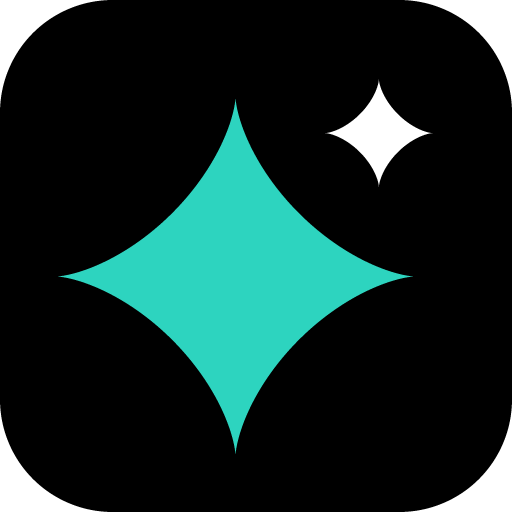
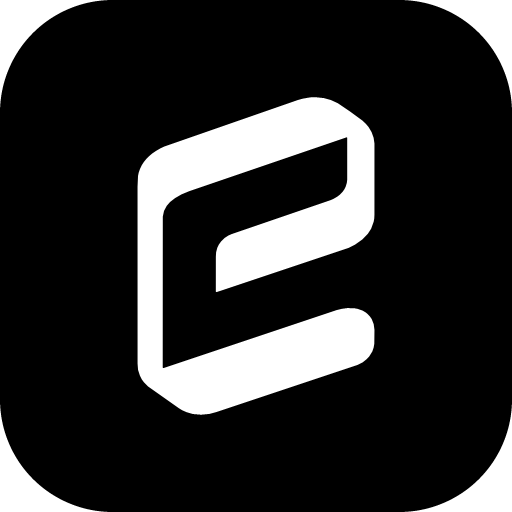
Use the isometric "e" as the brand mark
Replaces the placeholder broom glyph in the sidebar and auth screens, and the
generated teal sparkle in the icon set, with the real logo.

The mark is traced from the source artwork into a single filled outline in
web/src/brand.ts. That is the one definition: the React icon reads MARK_PATH,
and scripts/generate-icons.mjs reads the same constant out of the file to
render favicon.svg and the PWA icons — so the in-app logo, the tab icon and the
installed app icon cannot drift apart.

Tracing notes: contour-following on the pixel grid left the long isometric
edges visibly stair-stepped, so this traces sub-pixel via marching squares over
the anti-aliased luminance field instead. 99 points, ~1.3 KB of path, straight
edges and smooth corner rounds.

The in-app mark carries no fill of its own and inverts with the theme like any
other token-coloured shape. The app icons deliberately don't: an OS icon sits
on a wallpaper or tab strip of someone else's choosing, so it brings its own
true-black ground.

Bumps the service worker to v2 — installed clients would otherwise keep serving
the old cached icon-192.png.

Changed region(s): [[0.125, 0.1562, 0.8438, 0.875]]

diff --git a/web/src/brand.ts b/web/src/brand.ts
@@ -1,0 +1,18 @@
+/**
+ * The EasyClean brand mark: the isometric "e", traced from the source artwork
+ * into a single filled outline.
+ *
+ * This is the one definition of the mark. `scripts/generate-icons.mjs` reads
+ * MARK_PATH straight out of this file to render `public/favicon.svg` and the
+ * PWA icon set, so the tab icon, the installed app icon and the in-app logo
+ * can never drift apart — edit the path here and re-run the script.
+ *
+ * The glyph is taller than it is wide; it sits centred in a square viewBox so
+ * it drops into any square container without extra layout maths. The path
+ * carries no fill of its own, which lets each context colour it (`fill:
+ * var(--text)` on a card, `fill: var(--bg)` on an inverted tile).
+ */
+export const MARK_VIEWBOX = '0 0 100 100'
+
+export const MARK_PATH =
+  'M66.443 0.131L67.177 0.03L68.98 0L71.384 0.257L73.588 0.866L75.792 1.881L79.599 4.463L83.533 7.344L84.608 8.367L85.443 9.347L86.411 10.969L87.05 12.753L87.316 14.557L87.312 36.996L87.251 38.198L87.069 39.2L86.272 41.404L85.231 43.007L83.478 44.81L81.202 46.42L79.198 47.438L38.927 60.934L37.524 61.382L37.343 61.239L37.351 50.22L37.435 48.817L37.803 47.415L38.286 46.413L39.003 45.411L40.129 44.305L41.331 43.531L42.333 43.095L73.538 32.388L74.389 32.011L75.592 31.312L76.393 30.701L77.28 29.784L77.843 28.982L78.24 28.181L78.606 26.979L78.731 25.977L78.73 12.753L78.597 12.597L28.959 29.583L26.543 30.585L24.501 31.763L22.927 32.989L21.883 34.191L21.028 35.794L20.64 37.597L20.614 85.081L20.694 85.301L20.895 85.298L75.391 67.043L76.998 66.649L78.797 66.402L81.001 66.463L82 66.649L83.606 67.208L84.608 67.814L85.128 68.252L85.888 69.053L86.445 69.854L87.073 71.457L87.318 73.261L87.266 77.668L87.053 78.87L86.645 80.073L85.645 81.675L84.808 82.544L83.606 83.505L82.003 84.312L37.524 99.16L35.32 99.751L32.716 100L30.111 99.782L28.107 99.196L26.705 98.568L25.703 97.952L15.983 91.092L14.684 89.77L14.032 88.888L13.427 87.686L12.846 85.883L12.69 83.879L12.682 28.181L12.834 24.775L13.038 23.773L13.454 22.571L14.028 21.369L14.681 20.367L15.485 19.38L16.305 18.564L17.288 17.72L18.49 16.903L19.893 16.084L21.095 15.518L63.17 0.868L64.572 0.471Z'

diff --git a/web/src/icons.tsx b/web/src/icons.tsx
@@ -5,7 +5,18 @@
  * reload when this file changes, which is worth the callsite ergonomics.
  */
 /* eslint-disable react-refresh/only-export-components */
+import { MARK_PATH, MARK_VIEWBOX } from './brand'
+
 export const IC = {
+  /*
+   * The brand mark — the only filled glyph in here; the rest are stroked line
+   * icons. Callers colour it with `fill`, same as the others.
+   */
+  mark: () => (
+    <svg viewBox={MARK_VIEWBOX} xmlns="http://www.w3.org/2000/svg">
+      <path d={MARK_PATH} />
+    </svg>
+  ),
   broom: () => (
     <svg viewBox="0 0 24 24" xmlns="http://www.w3.org/2000/svg">
       <path d="M3 21l9-9M9.5 3.5l1.5 1.5-7 7-1.5-1.5z" />

diff --git a/web/src/styles/tokens.css b/web/src/styles/tokens.css
@@ -125,8 +125,10 @@ body,
   flex-shrink: 0;
 }
 .sidebar-brand-icon svg {
-  width: 18px;
-  height: 18px;
+  /* The brand mark is a tight filled glyph, not a padded line icon, so it wants
+     a smaller box than the icons elsewhere to sit right inside the tile. */
+  width: 16px;
+  height: 16px;
   fill: var(--bg);
 }
 .sidebar-brand-name {
@@ -1613,8 +1615,8 @@ input[type="range"]::-webkit-slider-thumb {
   box-shadow: 0 8px 24px rgba(0, 0, 0, 0.3);
 }
 .auth-logo-icon svg {
-  width: 26px;
-  height: 26px;
+  width: 24px;
+  height: 24px;
   fill: var(--text);
 }
 .auth-title {

diff --git a/web/src/screens/ServerSetup.tsx b/web/src/screens/ServerSetup.tsx
@@ -36,7 +36,7 @@ export function ServerSetup({ onDone }: Props) {
       <div className="auth-panel">
         <div className="auth-logo">
           <div className="auth-logo-icon">
-            <IC.broom />
+            <IC.mark />
           </div>
           <h1 className="auth-title">Connect to EasyClean</h1>
           <p className="auth-sub">Enter your EasyClean server address</p>

diff --git a/web/src/screens/LoginScreen.tsx b/web/src/screens/LoginScreen.tsx
@@ -55,7 +55,7 @@ export function LoginScreen({ onLogin }: Props) {
       <div className="auth-panel">
         <div className="auth-logo">
           <div className="auth-logo-icon">
-            <IC.broom />
+            <IC.mark />
           </div>
           <h1 className="auth-title">Log in to EasyClean</h1>
           <p className="auth-sub">Sign in to your account</p>

diff --git a/web/src/components/Sidebar.tsx b/web/src/components/Sidebar.tsx
@@ -23,7 +23,7 @@ export function Sidebar({ tab, setTab, username }: Props) {
     <nav className="sidebar">
       <div className="sidebar-brand">
         <div className="sidebar-brand-icon">
-          <IC.broom />
+          <IC.mark />
         </div>
         <div>
           <div className="sidebar-brand-name">EasyClean</div>

diff --git a/web/public/sw.js b/web/public/sw.js
@@ -14,7 +14,7 @@
  *                          would show stale counts or leak one user's data)
  */
 
-const VERSION = 'v1'
+const VERSION = 'v2'
 const SHELL_CACHE = `easyclean-shell-${VERSION}`
 const ASSET_CACHE = `easyclean-assets-${VERSION}`
 const THUMB_CACHE = `easyclean-thumbs-${VERSION}`

diff --git a/.claude/ui.md b/.claude/ui.md
@@ -57,6 +57,26 @@ Bottom tab bar — floating rounded pill, 4 tabs, active tab gets a raised light
 > URL + Online status) and storage is **per-user, three folders** — `source` (to review), `clean`
 > (kept/organized → physical albums), `.trash` (deleted, retained). Multi-user with an Admin role.
 
+## Brand mark
+
+The logo is an isometric **"e"** — a single filled outline, monochrome, no gradients or accent colour.
+It inverts with the theme like any other token-coloured shape, which is the whole reason it is a bare
+path and not an image.
+
+**One definition:** [`web/src/brand.ts`](../web/src/brand.ts) exports `MARK_PATH` + `MARK_VIEWBOX`
+(a square viewBox, glyph tight and centred — it is taller than it is wide, so it self-pads). React
+reaches it as `IC.mark`; `web/scripts/generate-icons.mjs` reads the same constant to render
+`public/favicon.svg` and the PWA icon set. Change the path, re-run the script — nothing drifts.
+
+**Placement**
+- *In-app* (sidebar brand, auth screens): the path alone, coloured by its container —
+  `fill: var(--bg)` on the inverted `--text` tile in the sidebar, `fill: var(--text)` on the card
+  at login. Size the glyph to ~50% of its tile; it is tight, so it needs a smaller box than the
+  stroked line icons.
+- *Favicon / app icons*: white glyph on a true-black tile (22% corner radius), always — an OS icon
+  sits on a wallpaper or tab strip of someone else's choosing, so it brings its own ground instead of
+  following the theme.
+
 ## Theme system
 
 Three modes — **Dark / Light / System** — plus a user **accent color**. Implement as semantic tokens:

diff --git a/CHANGELOG.md b/CHANGELOG.md
@@ -25,6 +25,11 @@ All notable changes to EasyClean are documented here. The format follows
   detection, per-screen queries, and incremental rescan.
 
 ### Changed
+- **Brand mark** — the isometric "e" logo replaces the placeholder broom glyph and the generated teal
+  sparkle icon. Traced from the source artwork to a single outline in `web/src/brand.ts`, which the
+  React icon and `scripts/generate-icons.mjs` both read, so the in-app logo, favicon and PWA icons
+  can't drift apart. In-app it's coloured by its container and inverts with the theme; the app icons
+  are a white glyph on a true-black tile.
 - **Login screen redesign** — ambient gradient backdrop, logo tile, large heading, labeled fields, a
   passcode reveal toggle, and a footer note, in both themes. `ServerSetup` shares the same shell.
 - **Friendlier auth errors.** `ApiError` now carries the HTTP status and unwraps the server's
